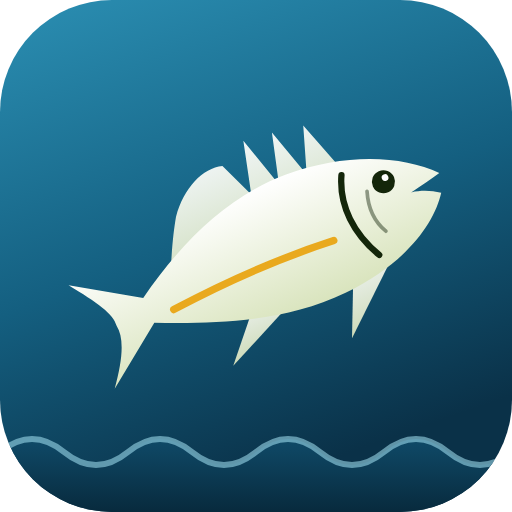
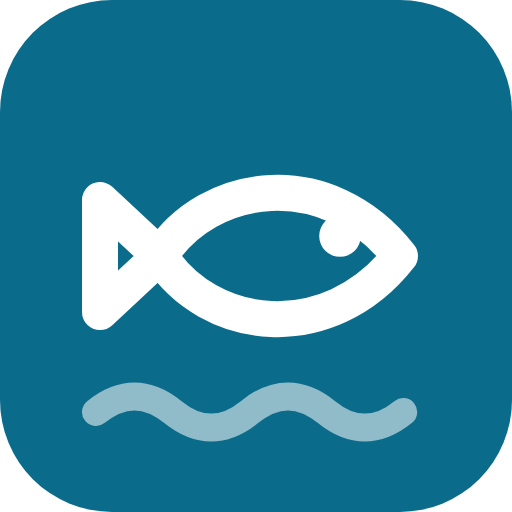
Add files via upload

diff --git a/index.html b/index.html
@@ -2,11 +2,11 @@
 <html lang="en">
 <head>
 <meta charset="utf-8">
-<meta http-equiv="Content-Security-Policy" content="default-src 'none'; script-src 'self' 'sha256-AQcgw3QsikccOQscMMUMW0Rfqv4LnLrk8Cee+yrlqqE=' 'sha256-gmO0/79m4Z6blEzckEi1l4j/GPr1hKi+4roXGu50LQM='; style-src 'self' 'unsafe-inline'; img-src 'self' data: blob: https://tiles.openfreemap.org; connect-src 'self' https://api.open-meteo.com https://photon.komoot.io https://tiles.openfreemap.org; worker-src 'self' blob:; child-src 'self' blob:; manifest-src 'self'; object-src 'none'; base-uri 'none'; form-action 'none'; frame-src 'none'">
+<meta http-equiv="Content-Security-Policy" content="default-src 'none'; script-src 'self' 'sha256-AQcgw3QsikccOQscMMUMW0Rfqv4LnLrk8Cee+yrlqqE=' 'sha256-HjwVM88W9+i9oJH1wW7EJYnR8pFDgNa2T/aSdCTqXjs='; style-src 'self' 'unsafe-inline'; img-src 'self' data: blob: https://tiles.openfreemap.org; connect-src 'self' https://api.open-meteo.com https://photon.komoot.io https://tiles.openfreemap.org; worker-src 'self' blob:; child-src 'self' blob:; manifest-src 'self'; object-src 'none'; base-uri 'none'; form-action 'none'; frame-src 'none'">
 <meta name="viewport" content="width=device-width,initial-scale=1,viewport-fit=cover">
+<meta name="theme-color" content="#0B6B8A">
 <title>Fishing | Log</title>
 <meta name="description" content="Log a fish with one tap. No account. Your catches are saved in your browser, not on a server.">
-<meta name="theme-color" content="#0a3148">
 <meta property="og:type" content="website">
 <meta property="og:site_name" content="Fishing">
 <meta property="og:title" content="Fishing: log a fish with one tap">
@@ -16,7 +16,7 @@
 <meta property="og:image:type" content="image/png">
 <meta property="og:image:width" content="1200">
 <meta property="og:image:height" content="630">
-<meta property="og:image:alt" content="Pixel-art fish swimming under the word FISHING">
+<meta property="og:image:alt" content="mbfishing.online: log a fish with one tap. The app's species buttons and a Start a trip button.">
 <meta name="twitter:card" content="summary_large_image">
 <meta name="twitter:title" content="Fishing: log a fish with one tap">
 <meta name="twitter:description" content="No account. Your catches are saved in your browser, not on a server.">
@@ -26,8 +26,8 @@
 <meta name="mobile-web-app-capable" content="yes">
 <meta name="apple-mobile-web-app-title" content="Fishing">
 <link rel="manifest" href="manifest.json">
+<link rel="icon" href="favicon.ico" sizes="48x48">
 <link rel="icon" href="favicon.svg" type="image/svg+xml">
-<link rel="icon" href="icon-192.png" type="image/png" sizes="192x192">
 <link rel="apple-touch-icon" href="apple-touch-icon.png">
 <style>
 /* Utility theme tokens: neutral desktop-software palette, one chartreuse-olive accent. The app opens in light mode; dark applies only when you pick it. */
@@ -607,6 +607,110 @@ label.bk-chk{display:flex;align-items:center;gap:8px;margin:10px 0 0;font-size:1
 .fc-warn{margin:12px 0 0;padding:12px 14px;border-radius:12px;border:1.5px solid var(--danger);background:var(--surface2);font-weight:600}
 .fc-note{margin:12px 0 0;font-size:13px;color:var(--muted)}
 .fc-how{margin-top:12px;font-size:14px}.fc-how summary{min-height:44px;display:flex;align-items:center;font-weight:650;cursor:pointer}.fc-how ul{padding-left:20px}.fc-how li{margin:4px 0}
+
+/* MB SUITE v1 */
+/* =====================================================================
+   MB SUITE v1 — shared design tokens ("Microsoft/Google Alternative" Utility)
+   Same file in every app. Only the 10 accent lines in the APP ACCENT block change.
+   Load order: last <style> in <head> (after the app's own CSS) so it wins.
+   ===================================================================== */
+:root{
+  color-scheme:light;
+  /* type */
+  --font:"Segoe UI Variable Text","Segoe UI",system-ui,-apple-system,BlinkMacSystemFont,Roboto,"Helvetica Neue",Arial,sans-serif;
+  --mono:ui-monospace,"Cascadia Mono",Consolas,"SF Mono",Menlo,monospace;
+  --fs-xs:11.5px; --fs-sm:12.5px; --fs:14px; --fs-md:15px; --fs-lg:17px; --fs-h2:22px; --fs-num:26px;
+  /* geometry: one radius for panels, one for controls, one for overlays */
+  --r:6px; --r-sm:4px; --r-lg:8px;
+  --ctl:38px; --ctl-sm:32px;
+  --sp-1:4px; --sp-2:8px; --sp-3:12px; --sp-4:16px; --sp-5:20px; --sp-6:24px;
+  --ease:120ms ease;
+  /* neutrals */
+  --bg:#f3f4f6; --surface:#ffffff; --surface-2:#f6f7f9; --surface-3:#eceef2;
+  --ink:#1b1f24; --ink-2:#48505c; --muted:#5f6773;
+  --border:#dfe2e7; --border-strong:#c6cbd3;
+  --hover-band:rgba(20,24,31,.045);
+  /* semantic (keep restrained) */
+  --good:#16a34a; --good-ink:#0b7a35; --warn:#e5a100; --warn-ink:#8a5a00; --crit:#c9302c; --crit-ink:#b42824; --info:#2563eb;
+  /* depth */
+  --shadow:0 1px 2px rgba(20,24,31,.06);
+  --shadow-pop:0 8px 24px -6px rgba(20,24,31,.22),0 1px 3px rgba(20,24,31,.08);
+  --scrim:rgba(10,12,16,.45);
+}
+:root[data-theme="dark"],:root.dark{
+  color-scheme:dark;
+  --bg:#16181c; --surface:#1e2126; --surface-2:#25292f; --surface-3:#2d3238;
+  --ink:#e9ecf0; --ink-2:#b4bbc5; --muted:#8e97a3;
+  --border:#30353c; --border-strong:#434a53;
+  --hover-band:rgba(255,255,255,.05);
+  --good:#22c55e; --good-ink:#4ade80; --warn:#f0b429; --warn-ink:#f5c95c; --crit:#ff6b6b; --crit-ink:#ff8a8a; --info:#60a5fa;
+  --shadow:0 1px 2px rgba(0,0,0,.3);
+  --shadow-pop:0 10px 28px -6px rgba(0,0,0,.6),0 0 0 1px rgba(255,255,255,.03);
+  --scrim:rgba(0,0,0,.6);
+}
+
+/* ---- APP ACCENT (the only per-app block) ---- */
+:root{
+  --brand:#0B6B8A;                 /* logo badge, OG image, theme-color */
+  --accent:#0B6B8A; --accent-hover:#085670; --accent-ink:#ffffff;
+  --accent-soft:color-mix(in srgb,var(--accent) 9%,transparent);
+  --accent-line:color-mix(in srgb,var(--accent) 38%,transparent);
+}
+:root[data-theme="dark"],:root.dark{
+  --accent:#5CC6E4; --accent-hover:#82D5EC; --accent-ink:#04202A;
+  --accent-soft:color-mix(in srgb,var(--accent) 13%,transparent);
+  --accent-line:color-mix(in srgb,var(--accent) 45%,transparent);
+}
+
+/* ---- primitives every app shares ---- */
+html{-webkit-text-size-adjust:100%}
+body{font-family:var(--font);font-size:var(--fs);line-height:1.45;background:var(--bg);color:var(--ink);font-feature-settings:normal;-webkit-font-smoothing:antialiased}
+::selection{background:color-mix(in srgb,var(--accent) 28%,transparent)}
+:focus-visible{outline:2px solid var(--accent);outline-offset:1px}
+input[type=checkbox],input[type=radio],input[type=range],progress{accent-color:var(--accent)}
+.tabular,.num,time{font-variant-numeric:tabular-nums}
+@media(prefers-reduced-motion:reduce){*,*::before,*::after{animation-duration:1ms!important;animation-iteration-count:1!important;transition-duration:1ms!important;scroll-behavior:auto!important}}
+@media(pointer:coarse),(max-width:700px){:root{--ctl:44px;--ctl-sm:44px}}
+.tld{font-style:normal;color:var(--accent)}
+
+/* ---- MB SUITE v1 · mbfishing.online adapter ---- */
+:root{--line:var(--border);--line-strong:var(--border-strong);--surface2:var(--surface-2);--surface3:var(--surface-3);--danger:var(--crit)}
+/* family signature: 3px accent line across the very top */
+body::before{content:"";position:fixed;left:0;right:0;top:0;height:3px;background:var(--accent);z-index:200;pointer-events:none}
+#top{padding-top:calc(env(safe-area-inset-top) + 9px)}
+/* line icons replace emoji in navigation and header tools */
+.uic{display:block;flex:none}
+#nav .ic{display:grid;place-items:center;height:22px}
+#nav .ic .uic{width:21px;height:21px}
+.ib .uic{width:19px;height:19px}
+@media(min-width:900px){
+  #nav{padding-top:18px}
+  #nav .ic{width:22px;height:20px}
+  #nav .ic .uic{width:18px;height:18px}
+  #nav button[aria-current=page]{background:var(--accent-soft);color:var(--accent);box-shadow:inset 3px 0 0 var(--accent)}
+  .brand{padding:2px 12px 16px}
+}
+.lockup img.logo{width:28px;height:28px;border-radius:var(--r)}
+img.logo{border-radius:var(--r)}
+/* squared geometry for the last rounded bits */
+.fc-pill{border-radius:var(--r-sm);font-weight:700}
+.fc-now,.fc-tip,.fc-warn{border-radius:var(--r);border-width:1px}
+.fc-strip i{border-radius:2px 2px 0 0}
+.fc-key i{border-radius:2px}
+.sp-th,.sp-art{border-radius:var(--r-sm)}
+:root[data-theme="dark"] .sp-th,:root[data-theme="dark"] .sp-art{background:#25303a}
+.lockup{border-radius:var(--r-sm)}
+.ib{border-radius:var(--r-sm)}
+#pill{border-radius:var(--r-sm)}
+.seg{border-radius:var(--r-sm)}
+.card{border-radius:var(--r)}
+.eyebrow{font-size:var(--fs-xs);letter-spacing:.06em;font-weight:650}
+.big{font-weight:650;letter-spacing:-.015em}
+.count b{font-weight:650;font-variant-numeric:tabular-nums}
+.tile b{font-variant-numeric:tabular-nums}
+#toast{background:var(--ink);color:var(--surface)}
+:root[data-theme="dark"] #toast{background:#2d3238;color:var(--ink)}
+
 </style>
 </head>
 <body>
@@ -615,9 +719,9 @@ label.bk-chk{display:flex;align-items:center;gap:8px;margin:10px 0 0;font-size:1
   <h1><a class="lockup" href="./" data-act="go" data-v="log" aria-label="mbfishing.online: Your catch log. Go to Log"><img class="logo" src="favicon.svg" alt="" width="32" height="32"><span class="lk-t"><span class="lk-n">mbfishing<span>.online</span></span><span class="lk-d">Your catch log. No account.</span></span></a></h1>
   <div class="hdr-tools">
     <button id="pill" data-act="go" data-v="log" hidden></button>
-    <button class="ib" id="search-btn" data-act="gs-open" aria-label="Search everything"><span aria-hidden="true">🔍</span><span class="lbl">Search everything</span><kbd>/</kbd></button>
+    <button class="ib" id="search-btn" data-act="gs-open" aria-label="Search everything"><svg class="uic" viewBox="0 0 24 24" width="20" height="20" fill="none" stroke="currentColor" stroke-width="2" stroke-linecap="round" stroke-linejoin="round" aria-hidden="true" focusable="false"><circle cx="10.5" cy="10.5" r="6"/><path d="m15 15 5 5"/></svg><span class="lbl">Search everything</span><kbd>/</kbd></button>
     <button class="ib themesw" id="theme-btn" data-act="theme-toggle" role="switch" aria-checked="false" aria-label="Dark mode"><span class="sw-tk"><span class="sw-th"></span></span></button>
-    <button class="ib" id="menu-btn" data-act="menu-open" aria-label="Menu"><span aria-hidden="true">☰</span><i class="dot" hidden></i></button>
+    <button class="ib" id="menu-btn" data-act="menu-open" aria-label="Menu"><svg class="uic" viewBox="0 0 24 24" width="20" height="20" fill="none" stroke="currentColor" stroke-width="2" stroke-linecap="round" stroke-linejoin="round" aria-hidden="true" focusable="false"><path d="M4 7h16M4 12h16M4 17h16"/></svg><i class="dot" hidden></i></button>
   </div>
   <div id="prog" aria-hidden="true"><i></i></div>
 </header>
@@ -652,12 +756,12 @@ label.bk-chk{display:flex;align-items:center;gap:8px;margin:10px 0 0;font-size:1
 </main>
 <nav id="nav" aria-label="Main">
   <div class="brand"><a class="lockup" href="./" data-act="go" data-v="log" aria-label="mbfishing.online: Your catch log. Go to Log"><img class="logo" src="favicon.svg" alt="" width="32" height="32"><span class="lk-t"><span class="lk-n">mbfishing<span>.online</span></span><span class="lk-d">Your catch log. No account.</span></span></a></div>
-  <button data-act="go" data-v="log" aria-current="page"><span class="ic">🎣</span>Log</button>
-  <button data-act="go" data-v="catches"><span class="ic">🐟</span>Catches</button>
-  <button data-act="go" data-v="map"><span class="ic">🗺</span>Map</button>
-  <button data-act="go" data-v="stats"><span class="ic">📊</span>Stats</button>
-  <button data-act="go" data-v="species"><span class="ic">📖</span>Species</button>
-  <button data-act="go" data-v="more" id="nav-more"><span class="ic">⚙</span>More</button>
+  <button data-act="go" data-v="log" aria-current="page"><span class="ic"><svg class="uic" viewBox="0 0 24 24" width="20" height="20" fill="none" stroke="currentColor" stroke-width="2" stroke-linecap="round" stroke-linejoin="round" aria-hidden="true" focusable="false"><circle cx="12" cy="12" r="9"/><path d="M12 8v8M8 12h8"/></svg></span>Log</button>
+  <button data-act="go" data-v="catches"><span class="ic"><svg class="uic" viewBox="0 0 24 24" width="20" height="20" fill="none" stroke="currentColor" stroke-width="2" stroke-linecap="round" stroke-linejoin="round" aria-hidden="true" focusable="false"><path d="M6.5 12c2.5-4 8.5-4.8 12.5 0-4 4.8-10 4-12.5 0z"/><path d="M6.5 12 3 9v6z"/><circle cx="15.5" cy="11.3" r=".9" fill="currentColor" stroke="none"/></svg></span>Catches</button>
+  <button data-act="go" data-v="map"><span class="ic"><svg class="uic" viewBox="0 0 24 24" width="20" height="20" fill="none" stroke="currentColor" stroke-width="2" stroke-linecap="round" stroke-linejoin="round" aria-hidden="true" focusable="false"><path d="M9 4 3 6.5v13L9 17l6 2.5 6-2.5v-13L15 6.5 9 4z"/><path d="M9 4v13M15 6.5v13"/></svg></span>Map</button>
+  <button data-act="go" data-v="stats"><span class="ic"><svg class="uic" viewBox="0 0 24 24" width="20" height="20" fill="none" stroke="currentColor" stroke-width="2" stroke-linecap="round" stroke-linejoin="round" aria-hidden="true" focusable="false"><path d="M4 20h16"/><path d="M7 16v-5M12 16V7M17 16v-8"/></svg></span>Stats</button>
+  <button data-act="go" data-v="species"><span class="ic"><svg class="uic" viewBox="0 0 24 24" width="20" height="20" fill="none" stroke="currentColor" stroke-width="2" stroke-linecap="round" stroke-linejoin="round" aria-hidden="true" focusable="false"><path d="M12 6.5C10.5 5 8 4.5 4 4.5v13c4 0 6.5.5 8 2 1.5-1.5 4-2 8-2v-13c-4 0-6.5.5-8 2z"/><path d="M12 6.5v13"/></svg></span>Species</button>
+  <button data-act="go" data-v="more" id="nav-more"><span class="ic"><svg class="uic" viewBox="0 0 24 24" width="20" height="20" fill="none" stroke="currentColor" stroke-width="2" stroke-linecap="round" stroke-linejoin="round" aria-hidden="true" focusable="false"><circle cx="5.5" cy="12" r="1.2" fill="currentColor"/><circle cx="12" cy="12" r="1.2" fill="currentColor"/><circle cx="18.5" cy="12" r="1.2" fill="currentColor"/></svg></span>More</button>
 </nav>
 <button id="totop" data-act="totop" aria-label="Back to top">↑</button>
 <div id="ob" role="dialog" aria-modal="true" aria-labelledby="ob-h" tabindex="-1" hidden></div>
@@ -2944,7 +3048,7 @@ function applyTheme(){
   const dark=themePref()==='dark';
   document.documentElement.setAttribute('data-theme',dark?'dark':'light');
   const b=$('#theme-btn');if(b)b.setAttribute('aria-checked',dark?'true':'false');
-  const m=$('meta[name=theme-color]');if(m)m.content=dark?'#1e2126':'#0a3148';
+  const m=$('meta[name=theme-color]');if(m)m.content=dark?'#1e2126':'#0B6B8A';
 }
 function setTheme(p){try{localStorage.setItem(THEME_KEY,p==='dark'?'dark':'light')}catch(e){}applyTheme()}
 ACT['theme-toggle']=()=>setTheme(effTheme()==='dark'?'light':'dark');

diff --git a/terms.html b/terms.html
@@ -6,7 +6,8 @@
 <meta http-equiv="Content-Security-Policy" content="default-src 'none'; style-src 'unsafe-inline'; img-src 'self'; base-uri 'none'; form-action 'none'">
 <title>Fishing | Terms</title>
 <meta name="description" content="Plain-language terms for using mbfishing.online.">
-<link rel="icon" href="icon-192.png">
+<link rel="icon" href="favicon.svg" type="image/svg+xml">
+<meta name="theme-color" content="#0B6B8A">
 <style>
 :root{--bg:#f3f4f6;--surface:#fff;--ink:#1b1f24;--muted:#5f6773;--line:#dfe2e7;--accent:#0b6b8a;color-scheme:light}
 *{box-sizing:border-box}
@@ -24,6 +25,11 @@ li{margin-bottom:6px}
 .card{background:var(--surface);border:1px solid var(--line);border-radius:14px;padding:14px 16px;margin:0 0 12px}
 .short{border-left:5px solid var(--accent)}
 .card p:last-child,.card ul:last-child{margin-bottom:0}
+/* MB SUITE v1 */
+body{font-family:"Segoe UI Variable Text","Segoe UI",system-ui,-apple-system,BlinkMacSystemFont,Roboto,"Helvetica Neue",Arial,sans-serif;font-size:16px}
+body::before{content:"";position:fixed;left:0;right:0;top:0;height:3px;background:var(--accent)}
+h1{font-weight:650;letter-spacing:-.015em}h2{font-weight:650}
+.card{border-radius:6px}.short{border-left-width:3px}
 </style>
 </head>
 <body>

diff --git a/privacy.html b/privacy.html
@@ -6,7 +6,8 @@
 <meta http-equiv="Content-Security-Policy" content="default-src 'none'; style-src 'unsafe-inline'; img-src 'self'; base-uri 'none'; form-action 'none'">
 <title>Fishing | Privacy</title>
 <meta name="description" content="What mbfishing.online stores on your device and which free outside services it contacts.">
-<link rel="icon" href="icon-192.png">
+<link rel="icon" href="favicon.svg" type="image/svg+xml">
+<meta name="theme-color" content="#0B6B8A">
 <style>
 :root{--bg:#f3f4f6;--surface:#fff;--ink:#1b1f24;--muted:#5f6773;--line:#dfe2e7;--accent:#0b6b8a;color-scheme:light}
 *{box-sizing:border-box}
@@ -26,6 +27,11 @@ li{margin-bottom:6px}
 .card p{margin:0 0 6px}
 .card p:last-child{margin:0}
 .short{border-left:5px solid var(--accent)}
+/* MB SUITE v1 */
+body{font-family:"Segoe UI Variable Text","Segoe UI",system-ui,-apple-system,BlinkMacSystemFont,Roboto,"Helvetica Neue",Arial,sans-serif;font-size:16px}
+body::before{content:"";position:fixed;left:0;right:0;top:0;height:3px;background:var(--accent)}
+h1{font-weight:650;letter-spacing:-.015em}h2{font-weight:650}
+.card{border-radius:6px}.short{border-left-width:3px}
 </style>
 </head>
 <body>

diff --git a/sw.js b/sw.js
@@ -2,7 +2,7 @@
    It lets the app open with no signal (the app files, plus the map code once you've opened the map)
    and remembers map tiles you've already viewed. Your fishing data is never touched by this file.
    "Delete all data" in the app also empties the tile cache below. */
-const VERSION = 'mbfishing-v26';
+const VERSION = 'mbfishing-v27';
 const SHELL = ['./', 'index.html', 'manifest.json', 'icon-192.png', 'icon-512.png', 'icon-maskable-512.png', 'apple-touch-icon.png', 'favicon.svg', 'privacy.html', 'terms.html', 'fish-art.js', 'pixel-kit.js', 'species-data.js'];
 const RUNTIME = 'mbfishing-runtime-v1';
 const MAX_RUNTIME = 900;
